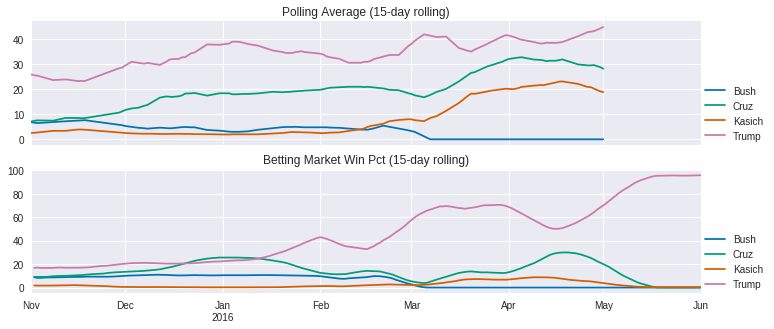
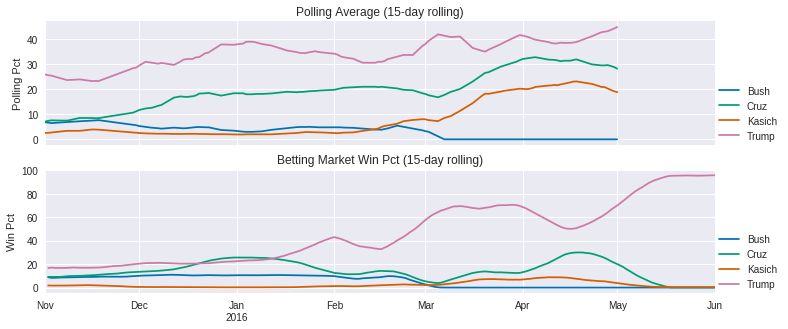
hotfix edits straight to master

diff --git a/_posts/2019-08-21-betting_markets.md b/_posts/2019-08-21-betting_markets.md
@@ -7,9 +7,19 @@ output: html_document
 tags: election
 ---
 
+<hr>
+
+**Updated 2019-26-08**
+
+* Expanded [Appendix](#appendix)
+* Added plot labels to [2016 Republican Primary plot](#2016-republican-primary)
+* Fixed typos and made edits for clarity
+
+<hr>
+
 ## Preface: Debate Bumps
 
-Did you know that you can bet on the outcome of the US Election? How much do you think each candidate would be willing to bet on themselves winning the Presidency? Wouldn't politics be more fun and honest if everybody put their money where their mouth is?
+In this post I will briefly and superficially cover what prediction markets are and how they can be used to forecast and understand political outcomes. Before I dive into details, I want to give a contemporary example of using prediction markets to better understand and forecast political outcomes.
 
 I used [aggregate data from a popular prediction market](https://electionbettingodds.com), where people can bet on things like "who will be the Democratic nominee for President of the United States," to look at **how each candidate's chance of winning the nomination changed between the day before and the day after each debate.** Note that candidates with higher probabilities have a larger opportunity to move around in the probability space, so larger movements don't necessarily mean better or worse debate performances.
 
@@ -23,10 +33,12 @@ This graphic is made using [Dimple.js](http://dimplejs.org/). If you'd like to l
 
 ## Prediction Markets
 
+Did you know that you can bet on the outcome of the US Election? How much do you think each candidate would be willing to bet on themselves winning the Presidency? Wouldn't politics be more fun and honest if everybody put their money where their mouth is?
+
 [Prediction markets](https://en.wikipedia.org/wiki/Prediction_market) make it possible to bet directly on the outcome of virtually any event. If you head to [PredictIt](https://www.predictit.org/markets/1/US-Elections) right now, you can buy a share of Donald Trump winning the 2020 election for \\$0.44. If he wins, you'd make \\$1 per share.
 If you buy a share, and the true probability of him winning is exactly 44%, you'd be expected to come out even (44% chance of winning a \\$1 is an expected revenue of \\$0.44, exactly what you spent on the share).
 
-If you believe the probability is higher than 44%, say 50%, you would also believe that your expected revenue is \\$0.50, so you'd expect to profit \\$0.06 off of every share. If you're rational (and confident), you would find lots of these types of advantages, place many bets, and on average you'd come out a very rich person!
+If you believe the probability is higher than 44%, say 50%, you would also believe that your expected revenue is \\$0.50, so you'd expect to profit \\$0.06 off of every share. If you're rational (and correct), you could find lots of these types of advantages, place many bets, and on average you'd come out a very rich person!
 
 The fascinating thing about prediction markets is that you are buying and selling shares with other bettors, just like a stock market. And just like a stock market, your demand for shares (based on your belief that Trump has a higher likelihood of winning than 44%) would eventually raise the price level to a new equilibrium if you had enough capital (and guts) to keep buying shares until the marginal profit of each additional share was 0, or the point at which the price of a share was \\$0.50.
 
@@ -34,17 +46,17 @@ In reality, it's not one person but many people who buy and sell these shares un
 
 ## Markets vs. Polls
 
-Prediction markets can give much the same information that public opinion polls can give, namely which candidate is most likely to win an election or nomination. Prediction markets, when operating efficiently, offer two key benefits over public opinion polls: they **respond quickly to new information,** and they give **probabilistic predictions.**
+Prediction markets can give much the same information that certain public opinion polls can give, namely which candidate is most likely to win an election or nomination. Prediction markets, when operating efficiently, offer two key benefits over public opinion polls: they **respond quickly to new information,** and they give **probabilistic predictions.**
 
-Polls often take days to reflect new information and require statistical maneuvering to give probabilistic predictions. What's more is that prediction markets have been [shown empirically](http://researchdmr.com/RothschildPOQ2009.pdf) to be more predictive than polls in US elections. When compared to a predictive model like [the one employed at FiveThirtyEight](https://fivethirtyeight.com/features/a-users-guide-to-fivethirtyeights-2016-general-election-forecast/) (that is largely based on polls), they perform slightly worse (but could be adjusted to perform better, according to the author cited above). With the amount of press that polls and models get, it's surprising to me that there is no similar coverage of the prediction markets.
+Polls often take days to reflect new information and require statistical maneuvering to give probabilistic predictions. What's more is that prediction markets have been [shown empirically](http://researchdmr.com/RothschildPOQ2009.pdf) to be more predictive than polls or models in US elections. This makes intuitive sense because people betting in these markets have access to polls and predictive models like the one at FiveThirtyEight *on top of* all the other information they may have at their disposal. With the amount of press that polls and models get, it's surprising to me that there is no similar coverage of the prediction markets.
 
-The relationship between prediction markets and polls is a tricky one. On the one hand, we expect polls to influence the prediction markets, as each new poll gives the bettors new information on the chances of each candidate winning. But the prediction market can also price in information quicker than polls, so there might also exist a lagged correlation in the other direction. You can even [bet on how a candidate will poll in the future](https://www.predictit.org/markets/detail/5740/What-will-Yang's-RCP-average-support-be-at-end-of-day-August-31), offering us the ability (or the illusion of the ability) to predict where polls are headed.
+The relationship between prediction markets and polls is a tricky one. On the one hand, we expect polls to influence the prediction markets, as each new poll gives the bettors new information on the chances of each candidate winning. But the prediction market can also price in information quicker than polls, so there might also exist a lagged correlation in the other direction. Indeed, you can even [bet on how a candidate will poll in the future](https://www.predictit.org/markets/detail/5740/What-will-Yang's-RCP-average-support-be-at-end-of-day-August-31), implying that these markets have information ahead of that reported in polls.
 
-It's also important to note that polls and prediction markets don't always tell the same story. I've produced some plots below of the 2016 primaries and general election, as well as the 2020 race to show and average of the polls recorded by [RealClearPolitics](https://RealClearPolitics.com) moves with the prediction markets aggregated at [ElectionBettingOdds](https://ElectionBettingOdds.com).
+It's also important to note that polls and prediction markets don't always tell the same story. I've produced some plots below of the 2016 primaries and general election, as well as the 2020 race to show how the polls recorded by [RealClearPolitics](https://RealClearPolitics.com) correlate with the prediction markets aggregated at [ElectionBettingOdds](https://ElectionBettingOdds.com).
 
-I didn't account for sample size or pollster bias in the polling average, but instead took a 15-day rolling average of all polls collected by RCP. As the data is only used for visual comparison, I assume this is not a huge deal as the trend lines for a sophisticated average and my rolling average should look about the same.
+I didn't account for sample size or pollster bias in my polling average, but instead took a 15-day rolling average of all polls collected by RCP. As the data is only used for visual comparison, I assume this is not a huge deal as the trend lines for a sophisticated average and my rolling average should look about the same at this granularity.
 
-### 2016 Republican primary
+### 2016 Republican Primary
 
 <p align="center">
   <img src="/figs/2019-08-21-betting_markets/2016_GOP_BettingvsPolls.png">
@@ -79,13 +91,13 @@ The 2016 Presidential Election gives a more extreme example of polls and predict
 
 On election day, this prediction market gave Clinton about an **80 percent** chance of winning the Presidency. Since markets respond quickly to new information, you can actually see the point at which more people than not started to believe Trump would pull off the unlikely (about 9:45pm ET).
 
-Compare this with others who gave probabilistic predictions fo the 2016 race:
+Compare this with others who gave probabilistic predictions fo the 2016 race (note that PredictWise is another betting market aggregator):
 
 > The Princeton Election Consortium gave Clinton a **99 percent** chance of winning. The Huffington Post’s forecast gave Clinton **98 percent**, PredictWise gave her **89 percent**, and the New York Times’s The Upshot gave her **85 percent**. Even FiveThirtyEight, which was the most bullish on Trump, gave Clinton over a **71 percent** chance of winning.
 
 - Source: [Politico](https://www.politico.com/magazine/story/2016/12/the-worst-political-predictions-of-2016-214555)
 
-Note that [PredictWise](https://markets.predictwise.com/markets/) is also a prediction market aggregator run by David Rothschild, the Author of the paper linked above. The reason I used ElectionBettingOdds for this article is that it was simply the first one I found, but it should be noted that EBO has a [pretty remarkable track record](https://electionbettingodds.com/TrackRecord.html) for prediction.
+Of course, one data point is not enough to conclude what the superior prediction method is (in fact, FiveThirtyEight beat the prediction markets in this case), but I find the range of predictions to be pretty remarkable.
 
 ### 2020 Democratic Primary
 
@@ -99,7 +111,7 @@ In the 2020 Democratic primary, Joe Biden has been leading in polls since RCP st
 
 It is unclear how much predictive power these markets have this far from the nomination; the study linked above found unsurprisingly that prediction error tends to increase as you move further away from an event in time. Despite these shortcomings, **polls and prediction markets can help understand the mechanisms that drive public support for a given candidate.**
 
-It was clear, for example, that [Harris's attack on Biden during the first debate](https://www.nytimes.com/2019/07/31/us/politics/kamala-harris-biden-busing.html) netted her a great deal of (albeit temporary) support. It is also clear that Warren is doing something right, with her recent surge in polls and newfound place at the top of the prediction market. If campaigns rely on feedback from the public to inform their strategy, prediction markets should absolutely be part of the equation.
+Prediction markets suggest, for example, that [Harris's attack on Biden during the first debate](https://www.nytimes.com/2019/07/31/us/politics/kamala-harris-biden-busing.html) netted her a great deal of (albeit temporary) support. They also suggest that Warren is doing something right, with her steadily increasing value in prediction markets. If campaigns rely on feedback from the public to inform their strategy, prediction markets should absolutely be part of the equation.
 
 ### 2020 Presidential Election
 
@@ -127,6 +139,9 @@ Prediction markets should certainly not replace polling, or polls-based models, 
 
 Notebook to pull data and generate plots is [here](https://colab.research.google.com/drive/1ER_FOn1NRa368WRF29EI1UBiQOm2GWRy). You can read more about how the data is generated [here](https://electionbettingodds.com/about.html).
 
+If you want to bet yourself, Betfair, [PredictIt](https://www.predictit.org/), and [Iowa Electronic Markets](https://iemweb.biz.uiowa.edu/markets/) are three markets I know about. Betfair is not available to folks inside the US, so I have chosen not to link to it above. PredictIt takes a healthy cut of any profits (5% withdrawal fee on total wealth and 10% of winnings), which [favors longshot bets](https://blog.predictwise.com/2016/05/betfair-v-predictit/), which is good to keep in mind when placing bets as well as when interpreting the prices as predictions. Iowa Prediction Markets [allegedly does not charge transaction fees](https://www.brookings.edu/blog/fixgov/2016/09/15/political-prediction-markets-what-are-they-good-for/), which might suggest they are more efficient than the other markets, depending on liquidity.
+
+[PredictWise](https://markets.predictwise.com/markets/) is another prediction market aggregator run by David Rothschild, the author of the paper linked above. The reason I used ElectionBettingOdds for this article is that it was simply the first one I found, but it should be noted that while EBO boasts a [pretty remarkable track record](https://electionbettingodds.com/TrackRecord.html) for prediction, I have found errors in the data they used to generate their assessment and have [contacted the maintainers of the website](https://twitter.com/andrewmehrmann/status/1164490920173195265) to submit a correction. Although both of these rely on data from Betfair and PredictIt, they have their own formulas for calculating probabilities from the prices in each market, so they often show slightly different conclusions.
 
 <script src="https://d3js.org/d3.v3.min.js"></script>
 <script src="https://cdnjs.cloudflare.com/ajax/libs/dimple/2.1.6/dimple.latest.min.js"></script>
@@ -154,11 +169,11 @@ d3.select('#chartContainer')
   d3.csv("/data/debatebump.csv", function (data) {
     myChart = new dimple.chart(svg, data);
     myChart.setMargins("50px", "30px", "0px", "120px");
-    x1 = myChart.addCategoryAxis("x", ["Candidate", "variable"]);
+    x1 = myChart.addCategoryAxis("x", ["Candidate", "Debate"]);
     x2 = myChart.addCategoryAxis("x", "Candidate");
-    y = myChart.addMeasureAxis("y", "value");
+    y = myChart.addMeasureAxis("y", "Change");
     y.tickFormat = ",.1f";
-    myChart.addSeries("variable", dimple.plot.bar);
+    myChart.addSeries("Debate", dimple.plot.bar);
 
     var net = myChart.addSeries("Net", dimple.plot.line, [x2, y]);
     net.aggregate = dimple.aggregateMethod.sum;
